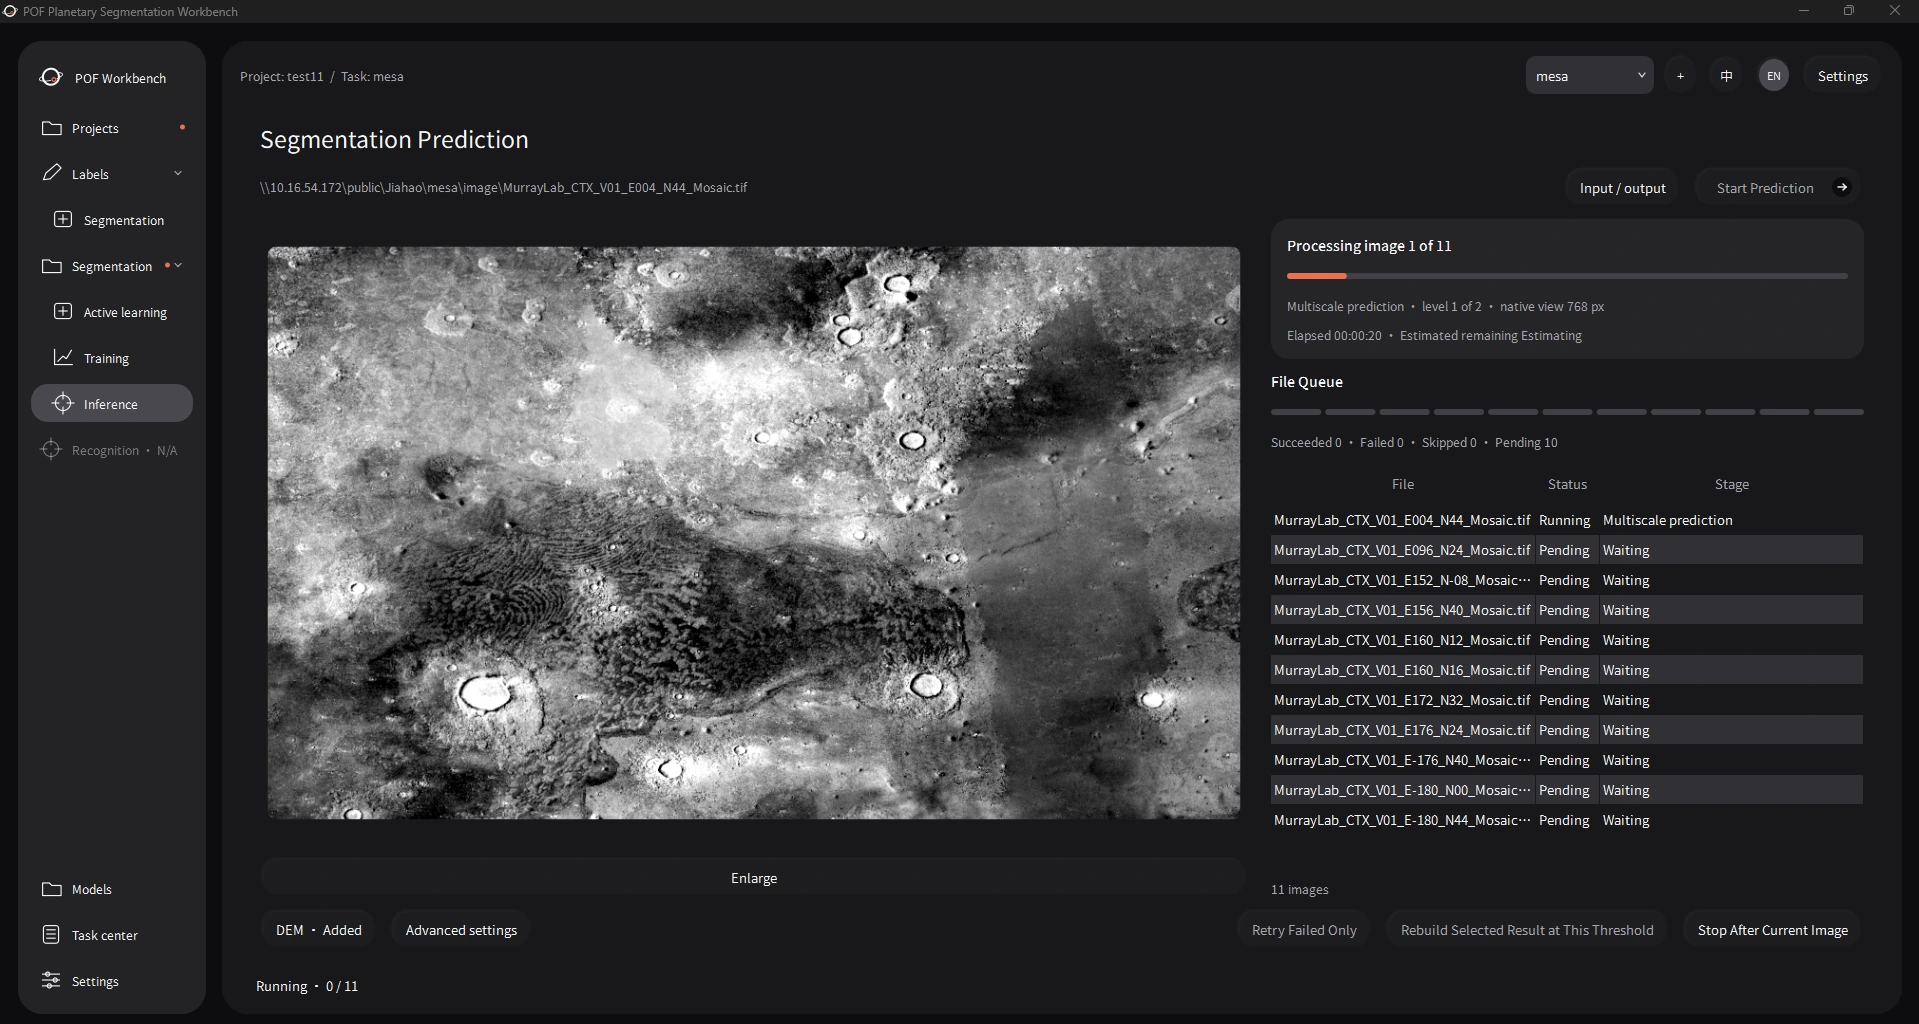
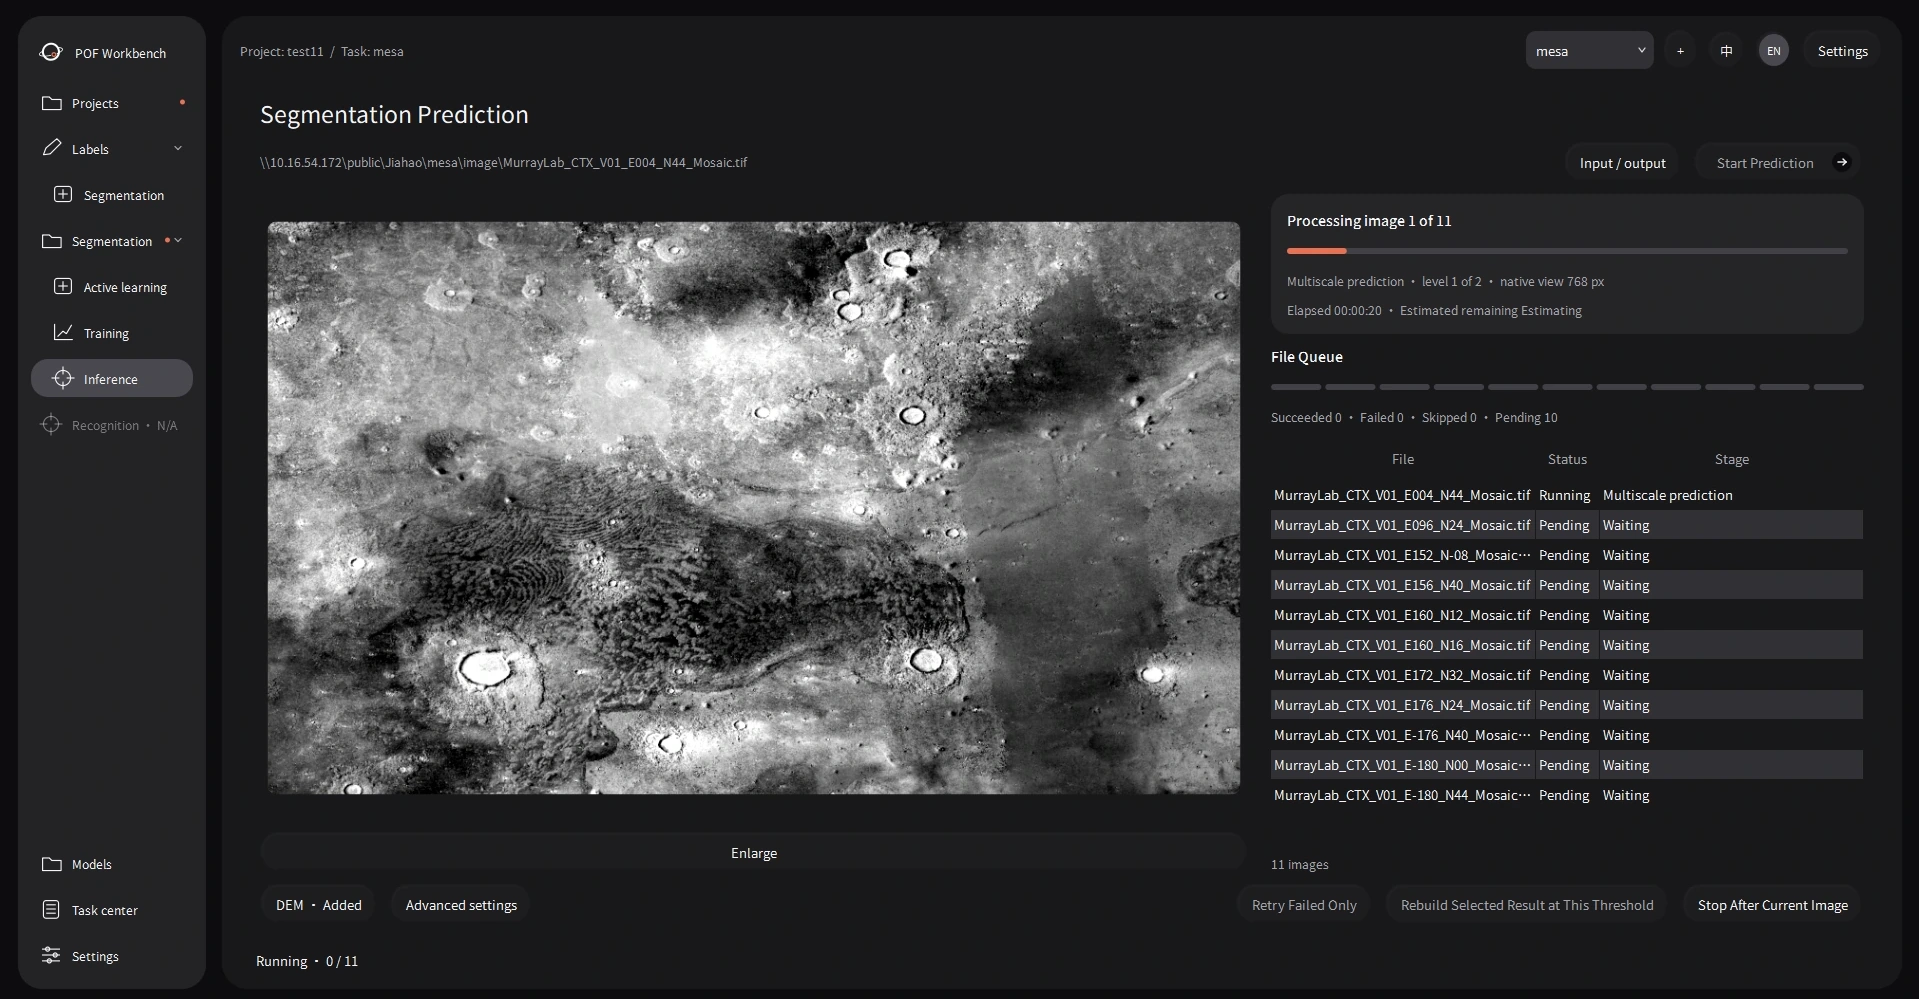
Crop desktop title bars from product previews

diff --git a/index.html b/index.html
@@ -45,7 +45,7 @@
       <div class="section-heading reveal"><p class="eyebrow" data-i18n="productEyebrow">01 / THE WORKBENCH</p><div class="heading-row"><h2 id="product-title" data-i18n="productTitle">Annotation. Training.<br>Batch segmentation.</h2><p data-i18n="productIntro">Annotate a landform. Train a model. Map the next image. Keep your data, labels and models connected in one desktop workspace.</p></div></div>
       <div class="product-stage reveal">
         <div class="stage-topline"><span class="stage-caption"><span class="signal-dot"></span> POF WORKBENCH</span><span class="platform-note">WINDOWS · DESKTOP</span></div>
-        <div class="product-image-wrap"><button class="screenshot-button" id="product-enlarge" aria-label="Enlarge product screenshot"><img id="product-image" src="assets/annotation.webp" width="1919" height="1021" loading="lazy" alt="POF image annotation workspace in dark appearance"></button></div>
+        <div class="product-image-wrap"><button class="screenshot-button" id="product-enlarge" aria-label="Enlarge product screenshot"><img id="product-image" src="assets/annotation.webp" width="1919" height="996" loading="lazy" alt="POF image annotation workspace in dark appearance"></button></div>
         <div class="stage-footer"><div class="view-tabs" role="tablist" aria-label="Product views"><button id="tab-annotate" role="tab" aria-selected="true" aria-controls="product-panel" tabindex="0" data-view="annotate" data-i18n="tabAnnotate">Annotate</button><button id="tab-project" role="tab" aria-selected="false" aria-controls="product-panel" tabindex="-1" data-view="project" data-i18n="tabProject">Projects</button><button id="tab-active" role="tab" aria-selected="false" aria-controls="product-panel" tabindex="-1" data-view="active" data-i18n="tabActive">Active learning</button><button id="tab-train" role="tab" aria-selected="false" aria-controls="product-panel" tabindex="-1" data-view="train" data-i18n="tabTrain">Train</button><button id="tab-predict" role="tab" aria-selected="false" aria-controls="product-panel" tabindex="-1" data-view="predict" data-i18n="tabPredict">Predict</button></div><span class="stage-count" id="stage-count">01 — 05</span></div>
       </div>
       <div class="product-details" id="product-panel" role="tabpanel" aria-labelledby="tab-annotate" tabindex="0"><h3 id="view-title" data-i18n="annotateTitle">A complete image canvas.</h3><p id="view-description" data-i18n="annotateDescription">A full image canvas with polygons, a brush, an eraser and a lasso. Open existing masks or Shapefiles and keep refining your labels.</p><span class="detail-note" id="view-note" data-i18n="annotateNote">TIFF + common images · PNG mask + SHP</span></div>
@@ -56,7 +56,7 @@
   <section class="workflow-section" id="workflow" aria-labelledby="workflow-title">
     <div class="container workflow-layout">
       <div class="workflow-copy reveal"><p class="eyebrow" data-i18n="workflowEyebrow">02 / A LEARNING LOOP</p><h2 id="workflow-title" data-i18n="workflowTitle">Active learning.<br>With you in the loop.</h2><p class="section-description" data-i18n="workflowDescription">Start with a few annotations or an existing model. Review suggested regions, correct the labels, then train the next round.</p><ol class="workflow-steps"><li><span>01</span><div><h3 data-i18n="step1Title">Choose what matters</h3><p data-i18n="step1">Bring in your imagery and define a task.</p></div></li><li><span>02</span><div><h3 data-i18n="step2Title">Review. Refine. Repeat.</h3><p data-i18n="step2">Edit suggested labels without leaving the canvas.</p></div></li><li><span>03</span><div><h3 data-i18n="step3Title">Take the model further</h3><p data-i18n="step3">Train with reviewed labels and compare validation results.</p></div></li></ol><a class="text-link" href="manual/en.html" data-manual-link><span data-i18n="readManual">Read the user manual</span><span aria-hidden="true">↗</span></a></div>
-      <div class="workflow-visual reveal"><div class="orbit-label"><span class="signal-dot"></span><span data-i18n="loopLabel">HUMAN GUIDANCE / MODEL LEARNING</span></div><button class="workflow-preview screenshot-button" type="button" data-preview="assets/active-learning.webp" aria-label="Enlarge the active learning workspace"><img class="terrain-photo" src="assets/active-learning.webp" width="1919" height="1025" loading="lazy" alt="POF active learning workspace with model selection, candidate review and saved validation metrics"></button><p class="example-label" data-i18n="exampleLabel">Actual interface · metrics belong to the displayed run</p></div>
+      <div class="workflow-visual reveal"><div class="orbit-label"><span class="signal-dot"></span><span data-i18n="loopLabel">HUMAN GUIDANCE / MODEL LEARNING</span></div><button class="workflow-preview screenshot-button" type="button" data-preview="assets/active-learning.webp" aria-label="Enlarge the active learning workspace"><img class="terrain-photo" src="assets/active-learning.webp" width="1919" height="1000" loading="lazy" alt="POF active learning workspace with model selection, candidate review and saved validation metrics"></button><p class="example-label" data-i18n="exampleLabel">Actual interface · metrics belong to the displayed run</p></div>
     </div>
   </section>
 

diff --git a/styles.css b/styles.css
@@ -49,10 +49,10 @@ html[lang=zh-CN] h1{font-size:clamp(60px,7vw,106px);line-height:1.15;letter-spac
 .affiliation-name{font-size:11px;font-weight:500;letter-spacing:.015em}
 .affiliation-school{font-size:10px;color:#d2d3cb;letter-spacing:.025em}
 .hero-manual{font-size:12px}.desktop-nav{gap:25px}
-.product-image-wrap{aspect-ratio:1919/1024}.stage-footer{gap:16px}.view-tabs{min-width:0;overflow-x:auto;scrollbar-width:thin}.view-tabs button{white-space:nowrap;flex-shrink:0}.stage-count{flex-shrink:0}
+.product-image-wrap{aspect-ratio:1919/1000}.stage-footer{gap:16px}.view-tabs{min-width:0;overflow-x:auto;scrollbar-width:thin}.view-tabs button{white-space:nowrap;flex-shrink:0}.stage-count{flex-shrink:0}
 .workflow-layout{grid-template-columns:.74fr 1.26fr;gap:60px}
 .workflow-visual{padding-top:32px}.workflow-preview{border-radius:7px;overflow:hidden;border:1px solid #ffffff1a;box-shadow:0 24px 70px #0004}
-.workflow-preview .terrain-photo{aspect-ratio:1919/1025;object-fit:contain;opacity:1;border-radius:0}
+.workflow-preview .terrain-photo{aspect-ratio:1919/1000;object-fit:contain;opacity:1;border-radius:0}
 .example-label{font-size:10px;margin-top:16px;line-height:1.7}
 .pof-section{background:var(--paper);color:var(--ink);padding:120px 0}
 .pof-layout{display:grid;grid-template-columns:1fr .9fr;gap:100px;align-items:center}

diff --git a/docs/verification.md b/docs/verification.md
@@ -37,6 +37,10 @@ The actual application updater parser accepts the live stable release for an old
 - The website's language preference routes manual links and the download panel to the matching English or Chinese PDF.
 - The v0.2.0 manual package now contains both online readers, both PDFs and the illustrated manual assets; the application binaries were not changed.
 
+## Screenshot cleanup — 2026-11-06
+
+- Cropped the Windows title-bar strip from all five product screenshots used on the website, then rechecked their aspect ratios, tab switching and responsive layouts.
+
 ## Sources
 
 - [NASA Psyche Mars south pole, PIA26772](https://science.nasa.gov/photojournal/nasas-psyche-mission-sees-mars-south-pole-after-flyby/) — addition date May 19, 2026; acquisition May 15, 2026.
